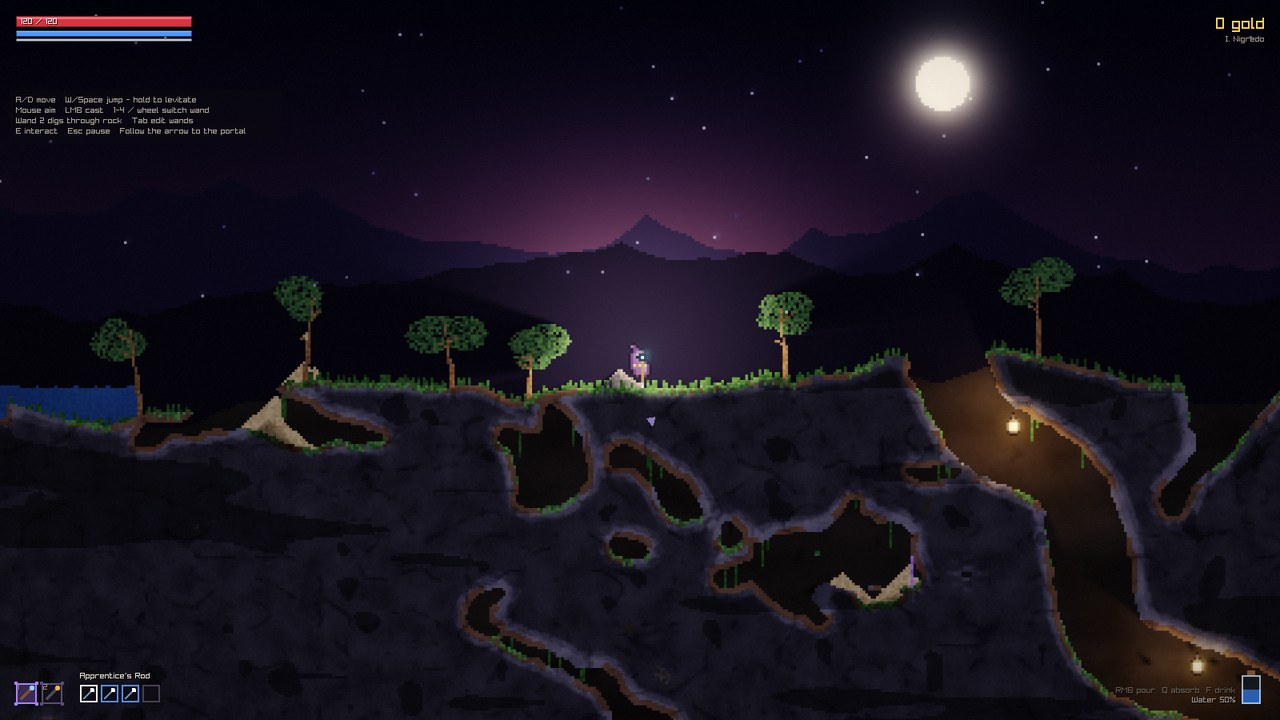
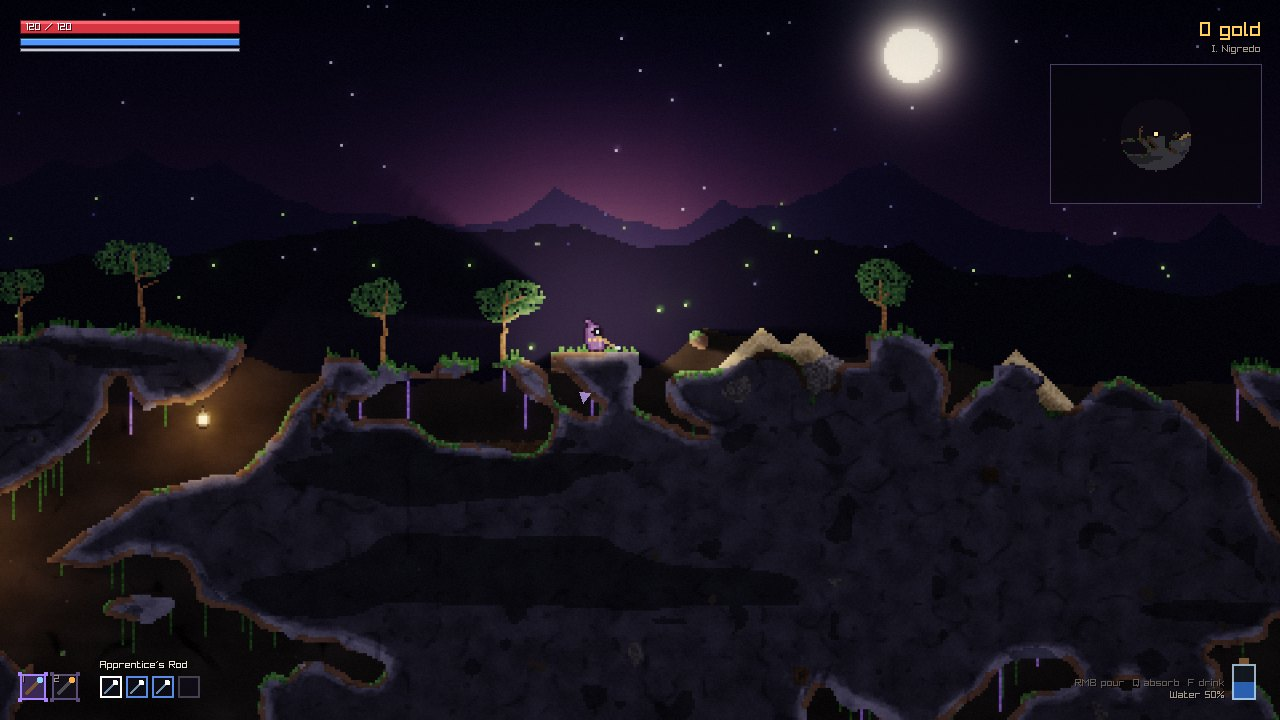
Refresh README screenshots: surface, vault, map, Grimoire and sandbox
Claude-Session: https://claude.ai/code/session_01SS7k2x4EpKFxcss3PJLjx6

diff --git a/README.md b/README.md
@@ -14,7 +14,9 @@ yourself from spell cards.
 | | |
 |---|---|
 | ![Rubedo](docs/media/rubedo.jpg) | ![The Rebis](docs/media/boss.jpg) |
-| ![Sanctum](docs/media/sanctum.jpg) | ![Wand editing](docs/media/inventory.jpg) |
+| ![An alchemist's laboratory vault](docs/media/vault.jpg) | ![Sanctum](docs/media/sanctum.jpg) |
+| ![The map](docs/media/map.jpg) | ![The Grimoire](docs/media/grimoire.jpg) |
+| ![Alchemy Sandbox](docs/media/sandbox.jpg) | ![Wand editing](docs/media/inventory.jpg) |
 
 ## Playing
 
